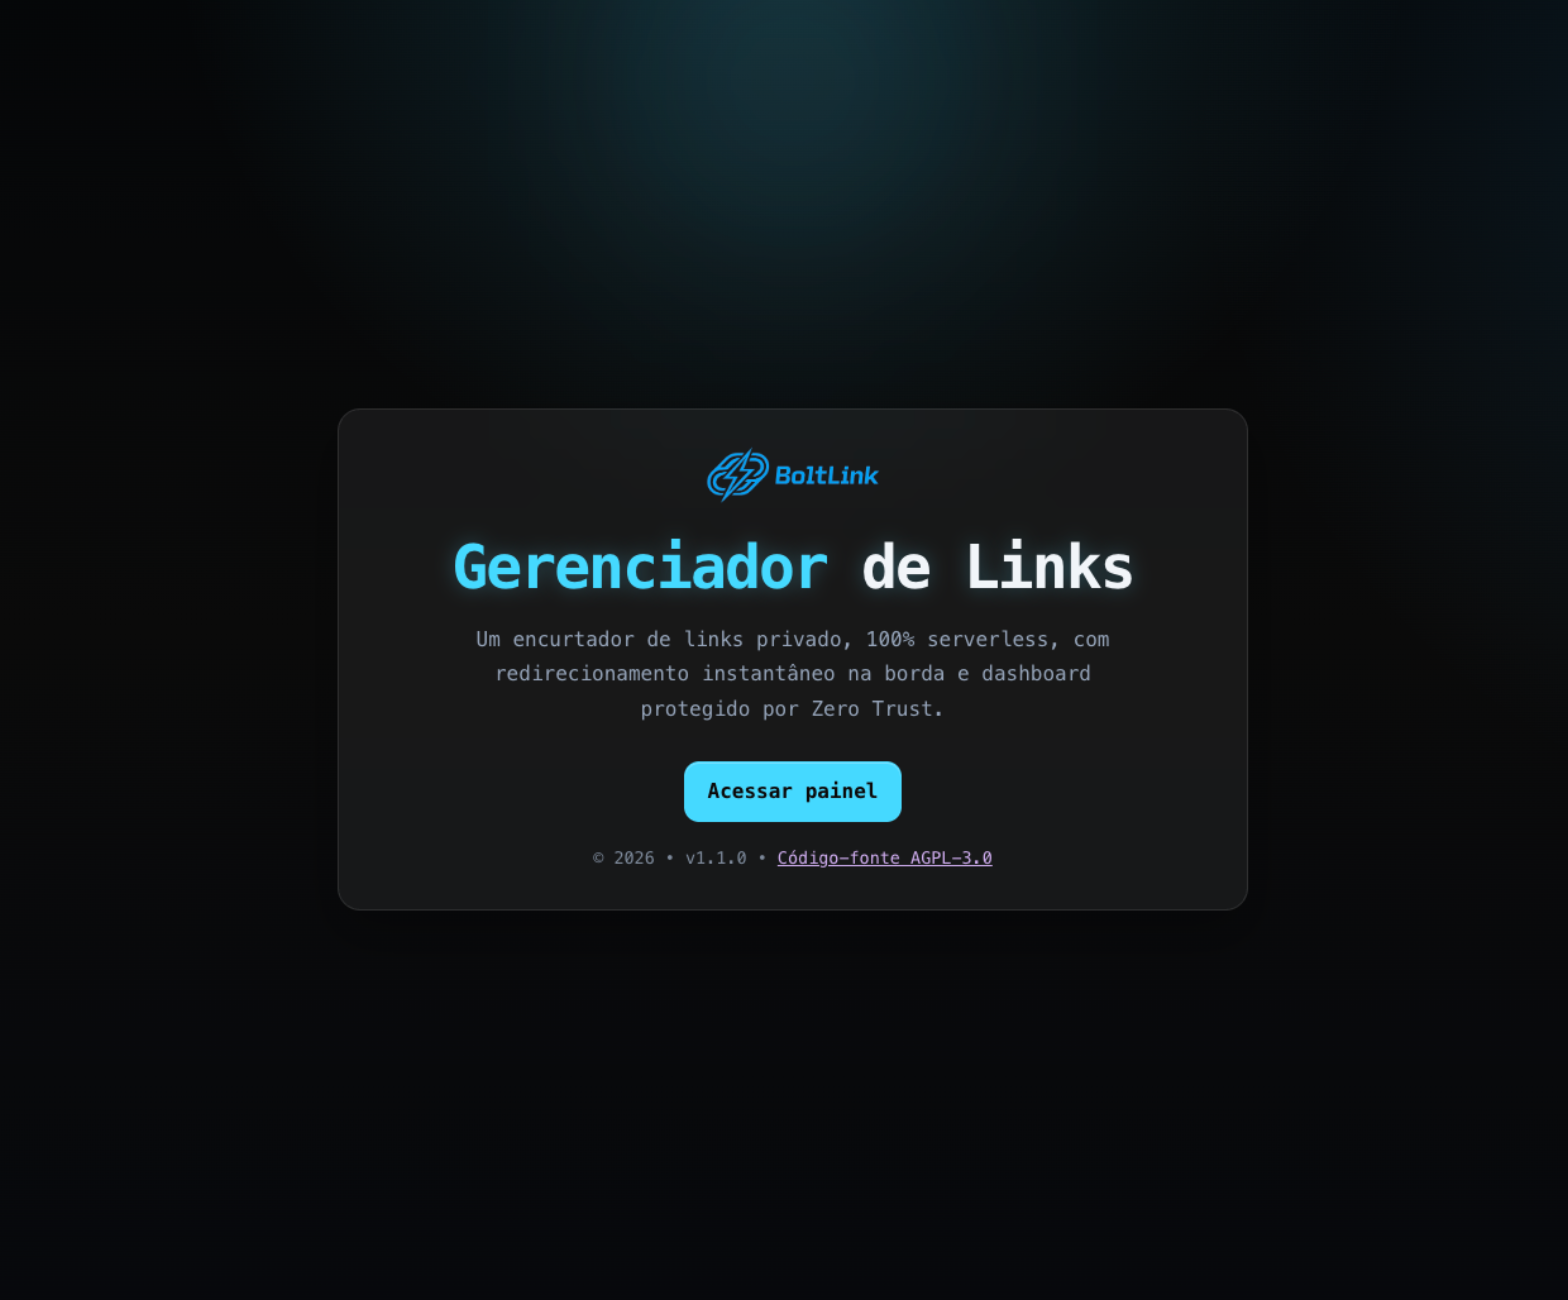
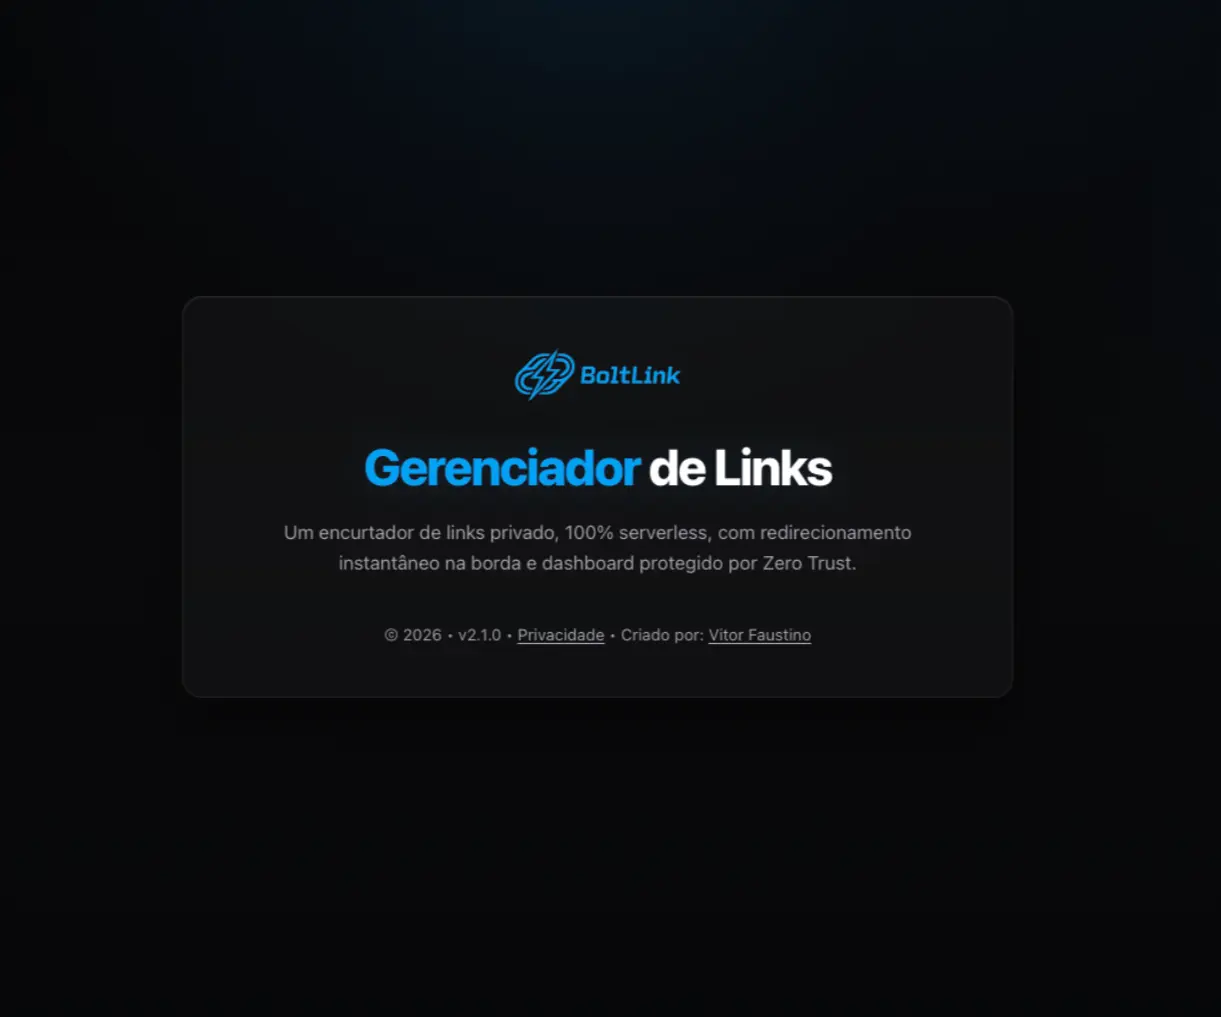
feat: upgrade to v2.2.0, implement constant-time password verification, enforce mandatory secret configuration, and enhance admin UI design.

Changed region(s): [[0.2179, 0.3353, 0.7469, 0.6706], [0.4357, 0.0, 0.5913, 0.1524]]

diff --git a/src/index.ts b/src/index.ts
@@ -140,7 +140,6 @@ const DEFAULT_APP_TIMEZONE = "America/Sao_Paulo";
 const PASSWORD_RATE_LIMIT_MAX_ATTEMPTS = 5;
 const PASSWORD_RATE_LIMIT_WINDOW_MS = 60_000;
 const PASSWORD_SESSION_MAX_AGE_SECONDS = 300;
-let passwordSessionFallbackSecret: string | null = null;
 const passwordAttempts = new Map<string, { count: number; resetAt: number }>();
 
 const app = new Hono<AppContext>();
@@ -1723,15 +1722,10 @@ function passwordCookieName(slug: string) {
 
 function getPasswordSessionSecret(env: Bindings) {
 	const configuredSecret = env.PASSWORD_SESSION_SECRET?.trim() || env.API_KEY?.trim();
-	if (configuredSecret) {
-		return configuredSecret;
+	if (!configuredSecret) {
+		throw new Error("PASSWORD_SESSION_SECRET is not configured. Password protection feature requires a static secret.");
 	}
-
-	if (!passwordSessionFallbackSecret) {
-		passwordSessionFallbackSecret = crypto.randomUUID();
-	}
-
-	return passwordSessionFallbackSecret;
+	return configuredSecret;
 }
 
 async function createPasswordSessionToken(env: Bindings, slug: string) {
@@ -1798,7 +1792,7 @@ async function verifyPassword(candidate: string, storedHash: string) {
 	}
 
 	const digest = await sha256Hex(`${salt}:${candidate ?? ""}`);
-	return digest === expected;
+	return constantTimeEqual(digest, expected);
 }
 
 async function sha256Hex(content: string) {

diff --git a/public/admin.css b/public/admin.css
@@ -793,10 +793,13 @@ button.icon-btn {
   box-shadow: 0 4px 12px rgba(0, 0, 0, 0.2);
   animation: card-in 200ms cubic-bezier(0.16, 1, 0.3, 1) both;
   transition: border-color var(--motion-medium), transform var(--motion-medium), box-shadow var(--motion-medium), background-color var(--motion-medium), opacity var(--motion-medium);
-  overflow: hidden;
+  overflow: visible;
 }
 
+.card:has(details[open]),
+.card:focus-within,
 .card:hover {
+  z-index: 20;
   transform: translateY(-2px);
   border-color: var(--line-hover);
   background: var(--surface-hover);

diff --git a/test/link-lifecycle-and-management.spec.ts b/test/link-lifecycle-and-management.spec.ts
@@ -59,7 +59,7 @@ const SCHEMA_STATEMENTS = [
 async function fetchWorker(url: string, init?: RequestInit) {
 	const request = new Request(url, init);
 	const ctx = createExecutionContext();
-	const response = await worker.fetch(request, env, ctx);
+	const response = await worker.fetch(request, { ...env, PASSWORD_SESSION_SECRET: "test-secret" }, ctx);
 	await waitOnExecutionContext(ctx);
 	return response;
 }

diff --git a/RELEASE_NOTES.md b/RELEASE_NOTES.md
@@ -1,5 +1,19 @@
-## BoltLink 2.1.0 - Estrutura do Admin Separável
+## BoltLink 2.2.0 - UI Redesign & Hardening
 
+Esta atualização traz um pacote significativo de melhorias visuais e uma auditoria de segurança direcionada ao core do sistema.
+
+### Destaques Visuais
+O painel administrativo (`admin.html`, `admin.css`, `admin.js`) e as páginas públicas (`privacidade.html`, `index.ts`) foram reescritos para adotar uma estética premium, moderna e limpa.
+- **Glassmorphism e Animações**: Interface aprimorada com sombras suaves, fundos em degradê e interações táteis (spring) nos botões.
+- **Limpeza no Layout Mobile**: As ações por link ("QR Code", "Duplicar", etc.) foram agrupadas em um menu suspenso (`<details>`) para que em resoluções de smartphone (ex: 320px) o painel continue perfeitamente organizado sem empurrar elementos.
+- **Typography e Cor**: Adoção de hierarquia sem serifas (system fonts) e substituição da antiga paleta ciano por um tom premium de azul (`#00A1F5`).
+
+### Destaques de Segurança
+A auditoria implementou um endurecimento na mecânica de autenticação de links isolados:
+- **Mitigação de Timing Attack**: A verificação de senha de visitantes passou a utilizar comparação de tempo constante (`constantTimeEqual`).
+- **Sessões Fail-Secure**: Removido o *fallback* de variável em memória para as sessões de senha. O operador é forçado a ter a variável `PASSWORD_SESSION_SECRET` configurada ao utilizar senha. Se não for informada, o worker lançará erro visando proteger a segurança global da sessão em um ambiente distribuído de datacenters.
+
+## BoltLink 2.1.0 - Estrutura do Admin Separável
 Esta versão reorganiza o painel administrativo extraindo CSS e JavaScript para arquivos separados, sem alterar comportamento de redirect, API ou autenticação.
 
 O `admin.html` deixa de ser um arquivo monolítico de 2158 linhas e passa a carregar:

diff --git a/README.md b/README.md
@@ -2,7 +2,7 @@
 
 BoltLink é um gerenciador de links com Cloudflare Workers, Hono, D1 e painel administrativo estático.
 
-**Versão 2.1.0 - AGPL-3.0**
+**Versão 2.2.0 - AGPL-3.0**
 
 Ele funciona como encurtador de URLs, mas o objetivo real do projeto é maior: manter links públicos estáveis, simples de operar e independentes de plataformas terceiras, com controle do redirect, proteção do painel e uma baseline de privacidade mais rígida do que a maioria das ferramentas desse tipo.
 
@@ -107,9 +107,9 @@ Depois do deploy:
 4. opcionalmente configurar `API_KEY` e `PASSWORD_SESSION_SECRET`
 5. opcionalmente trocar para domínio próprio
 
-Se voce nao usa links protegidos por senha, pode deixar `PASSWORD_SESSION_SECRET` sem configurar.
-Se voce usa GitHub auto-deploy ou o botao de deploy da Cloudflare, configure `PASSWORD_SESSION_SECRET` no painel da Cloudflare como `Secret`.
-Se voce publica com Wrangler local, use `.dev.vars` para desenvolvimento e `wrangler secret put PASSWORD_SESSION_SECRET` para o Worker implantado.
+Se você utiliza o recurso de links protegidos por senha, **deve obrigatoriamente** configurar o `PASSWORD_SESSION_SECRET`. Se não for configurado, a criação e o acesso aos links com senha falharão.
+Se você usa GitHub auto-deploy ou o botão de deploy da Cloudflare, configure `PASSWORD_SESSION_SECRET` no painel da Cloudflare como `Secret`.
+Se você publica com Wrangler local, use `.dev.vars` para desenvolvimento e `wrangler secret put PASSWORD_SESSION_SECRET` para o Worker implantado.
 
 Comandos simples para gerar secrets:
 
@@ -139,7 +139,7 @@ Esse arquivo é um ponto de partida e deve ser adaptado pelo operador antes do u
 - permite zerar a estatística agregada de um link ativo
 - inclui orientações para reduzir tráfego desnecessário no plano gratuito da Cloudflare
 
-## Upgrade para v2.1.0
+## Upgrade para v2.2.0
 
 ```bash
 git pull --ff-only

diff --git a/CHANGELOG.md b/CHANGELOG.md
@@ -1,5 +1,18 @@
 # Changelog
 
+## [2.2.0] - 2026-05-29
+
+### Adicionado
+- Redesign visual premium (dark tech aesthetic) utilizando custom properties, glassmorphism e animações suaves.
+- Menu dropdown interativo (`<details>`) no painel administrativo mobile para agrupar ações secundárias de forma limpa.
+- Omitida a variável `passwordSessionFallbackSecret`. O sistema agora segue uma arquitetura fail-secure explícita e lançará um erro se o recurso de senha for ativado sem a correta configuração do segredo estático.
+
+### Alterado
+- Melhoria de Segurança: Mitigação de timing attacks em `verifyPassword` usando `constantTimeEqual` ao invés de comparação em tempo variável.
+- Otimização do design responsivo com reorganização de tabelas e botões no admin UI, prevenindo overflow de texto em telas médias.
+- Remoção de botão "Acessar Painel" público da página inicial (home) em prol de uma interface mais fluida para usuários finais.
+- Refino da paleta de cores globais com azul (#00A1F5) de maior contraste e estética premium.
+
 ## [2.1.0] - 2026-05-22
 - Added: public/admin.css extracted from inline <style> block for independent caching
 - Added: public/admin.js extracted from inline <script> block for maintainability

diff --git a/docs/architecture.md b/docs/architecture.md
@@ -70,10 +70,11 @@ Não existe mais persistência de evento por clique.
 
 ## Rate limiting
 
-- `/api` e `/api/*` continuam com rate limit em memória
-- redirects públicos têm rate limit em memória antes da leitura D1
-- o gate de senha usa chave derivada de IP apenas em memória
-- para plano gratuito, consulte `docs/free-plan-traffic.md` antes de considerar recursos pagos
+- `/api` e `/api/*` continuam com rate limit em memória.
+- redirects públicos têm rate limit em memória antes da leitura D1.
+- o gate de senha usa chave derivada de IP apenas em memória.
+- **Atenção (Escopo Edge):** Como a memória em Workers não é compartilhada globalmente, esses limites atuam apenas no nível de Isolate/Datacenter (Colo) para evitar rajadas localizadas (DoS acidental). Eles não mitigam ataques de negação de serviço distribuídos pelo mundo. Para ataques DDoS e Rate Limite global estrito, recomenda-se configurar regras nativas de WAF no painel da Cloudflare.
+- para plano gratuito, consulte `docs/free-plan-traffic.md` antes de considerar recursos pagos.
 
 ---
 

diff --git a/AGENTS.md b/AGENTS.md
@@ -122,5 +122,5 @@ Para mudanças de banco:
 
 ---
 
-Versão 2.1.0
+Versão 2.2.0
 Criado por Vitor Faustino - vitorfaustino.com.br
